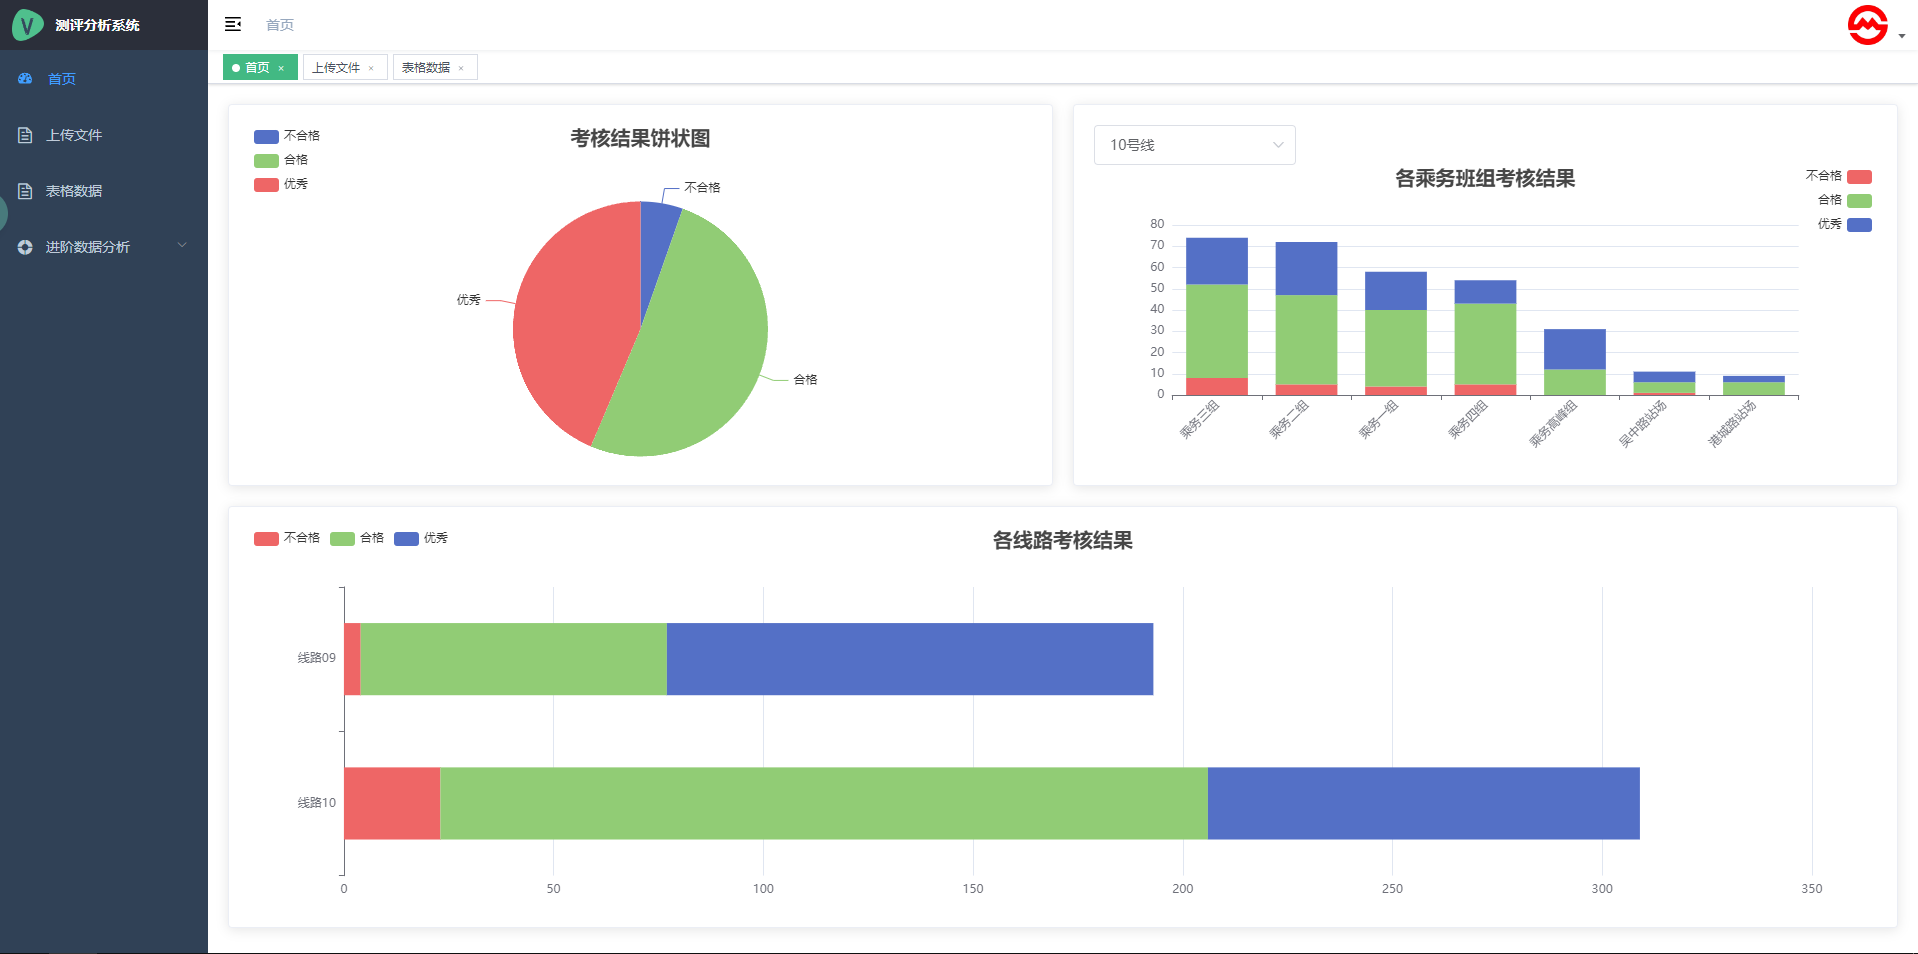
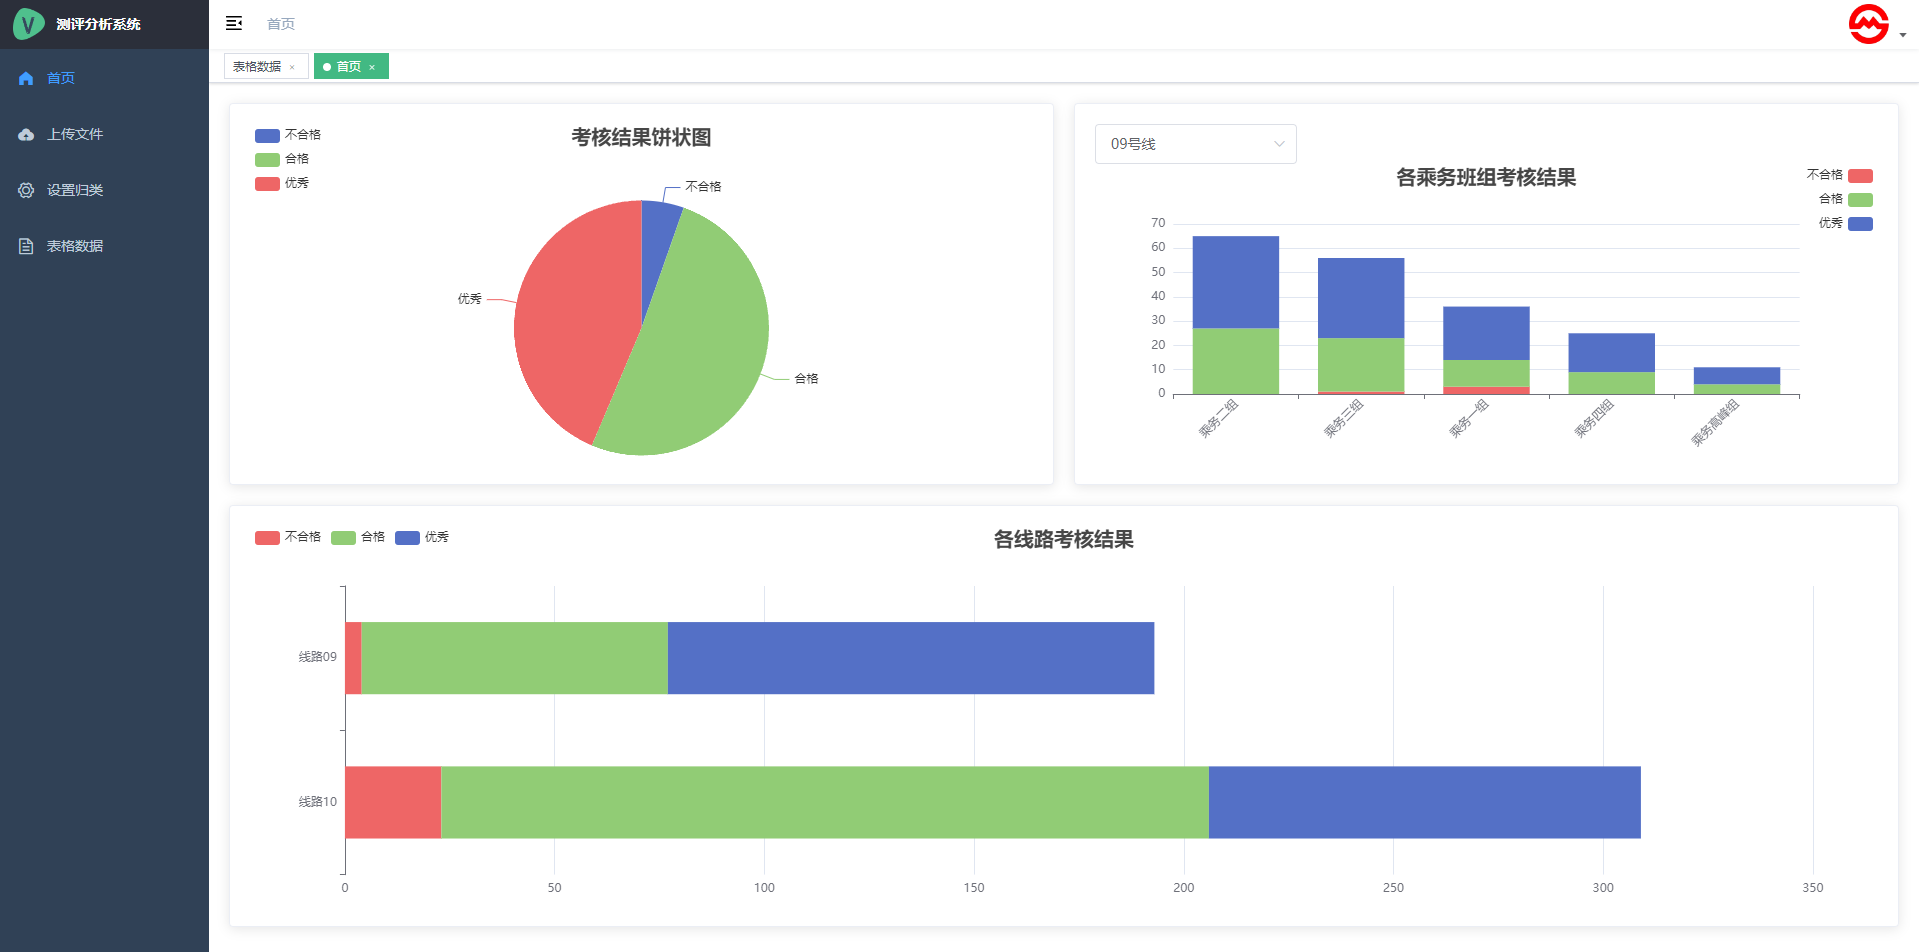
更新仪表盘、上传、表格和设置图像

diff --git a/README.md b/README.md
@@ -24,9 +24,12 @@ npm run server
 ```
 
 ### 浏览器访问 [http://localhost:8080](http://localhost:8080)
+
 ![alt text](dashbord.png)
 ![alt text](upload.png)
 ![alt text](table.png)
+![alt text](settings.png)
+![alt text](analysis.png)
 
 ## 发布
 
